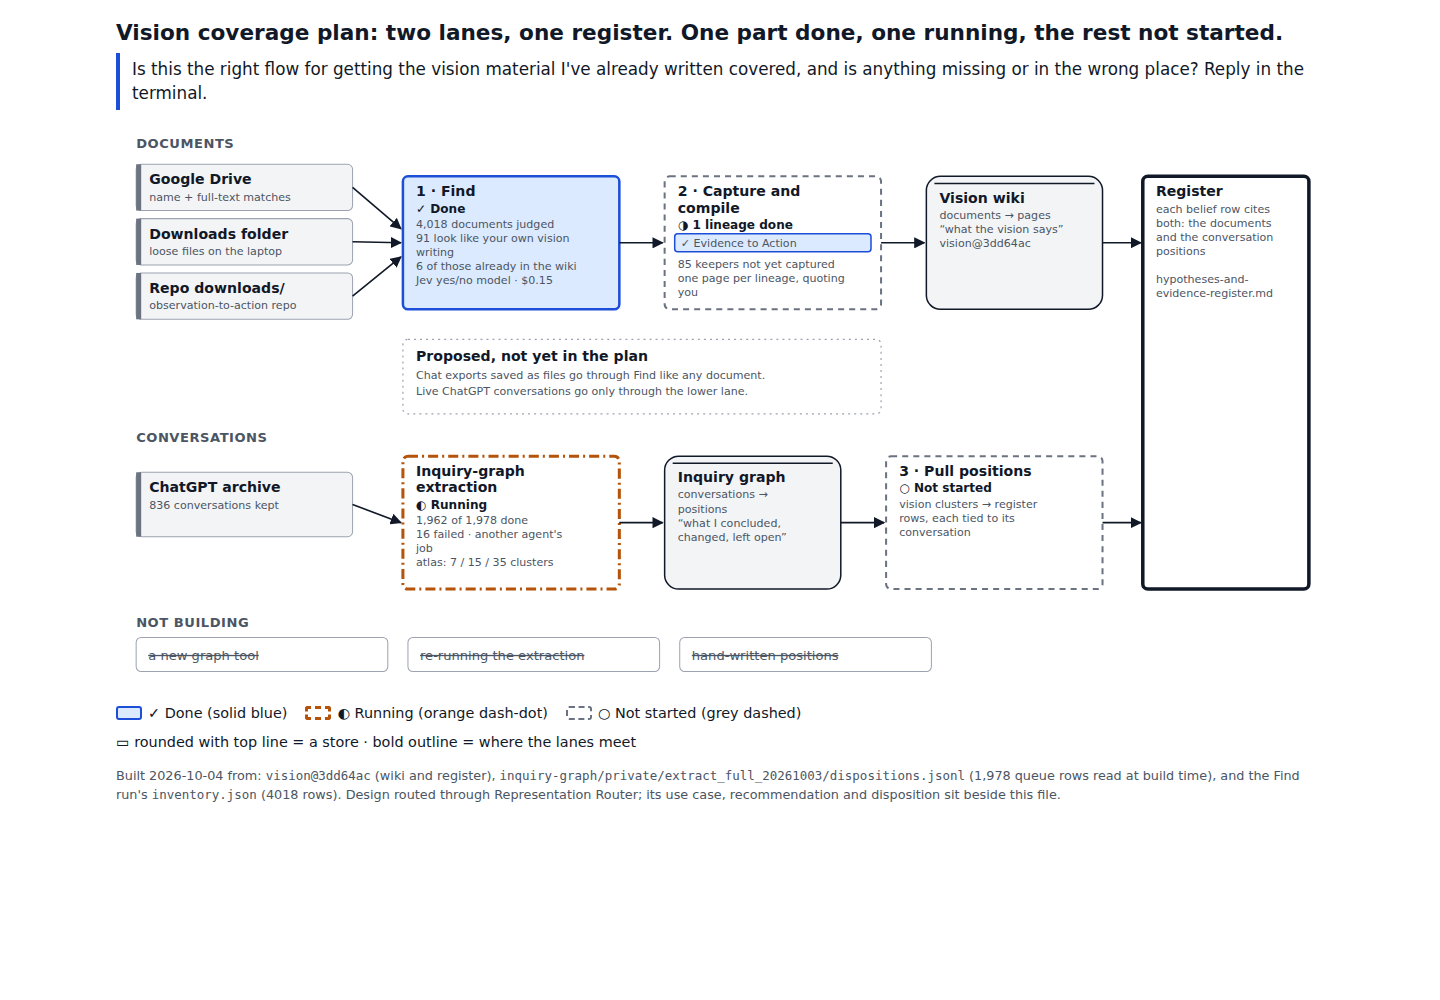
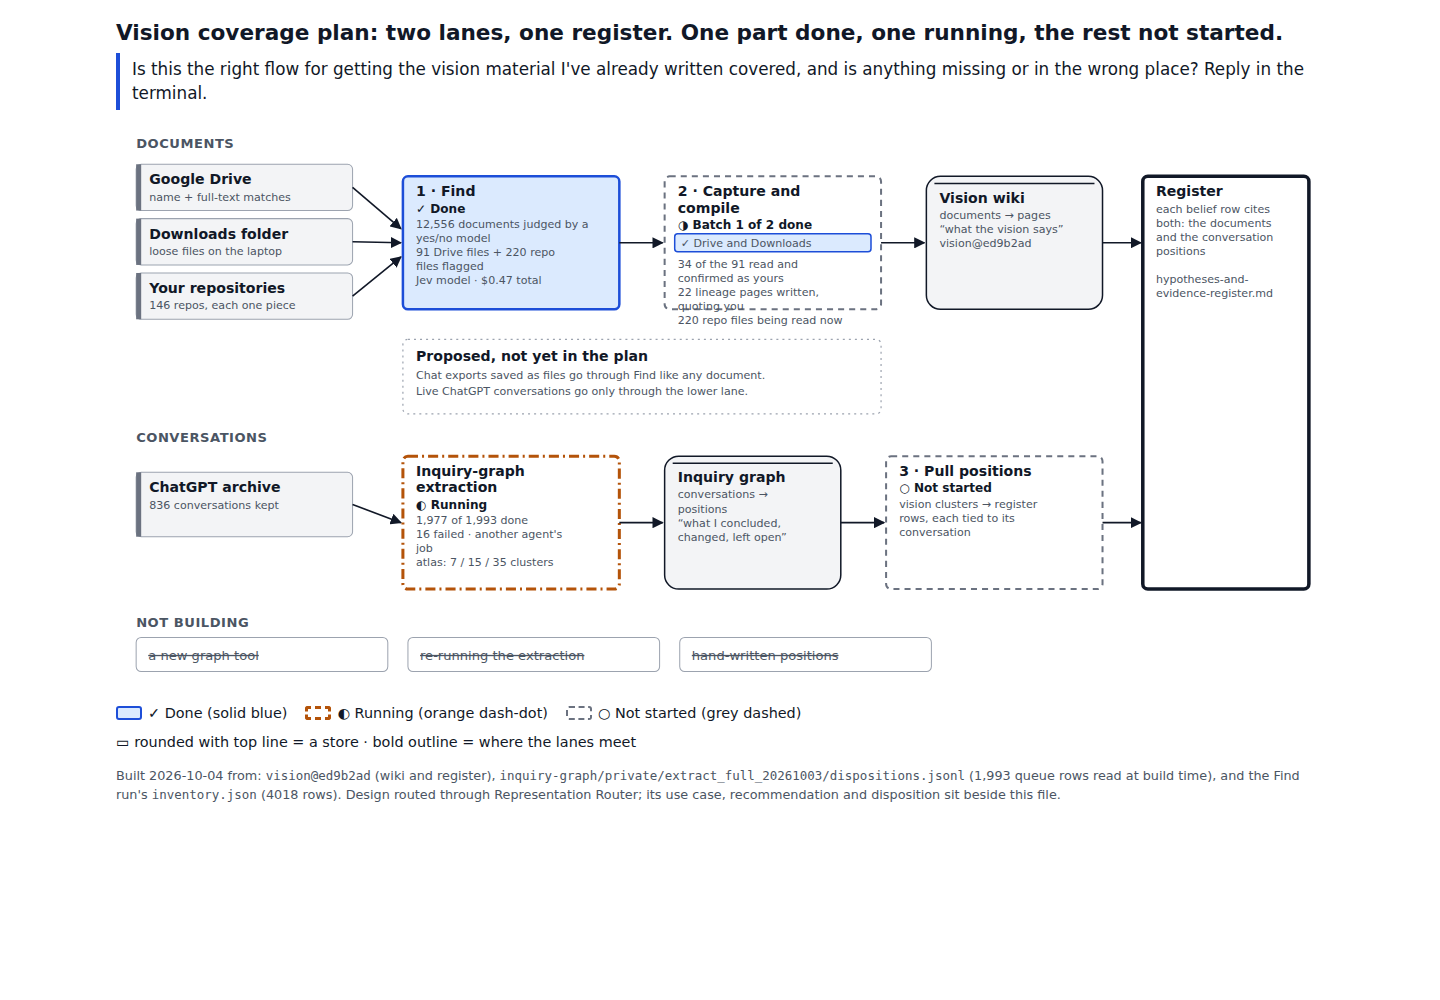
Vision-coverage plan: repositories as a source; step 1 complete across Drive, Downloads and 146 repos; step 2 batch one done
Claude-Session: https://claude.ai/code/session_01G9RvgvmeicLDxH26LWxpYq

diff --git a/proposals/vision-coverage/review-page/vision-coverage-plan.html b/proposals/vision-coverage/review-page/vision-coverage-plan.html
@@ -41,30 +41,32 @@ footer{margin-top:14px;font-size:.8rem;color:var(--muted)}footer code{font-size:
 <text x="33" y="130" class="t-prov">loose files on the laptop</text>
 </g><g class="k-src "><rect x="20" y="148" width="215" height="46" rx="5"/>
 <rect x="20" y="148" width="5" height="46" class="srcbar"/>
-<text x="33" y="168" class="t-title">Repo downloads/</text>
-<text x="33" y="184" class="t-prov">observation-to-action repo</text>
+<text x="33" y="168" class="t-title">Your repositories</text>
+<text x="33" y="184" class="t-prov">146 repos, each one piece</text>
 </g><g class="k-step st-done"><rect x="285" y="52" width="215" height="132" rx="5"/>
 <text x="298" y="72" class="t-title">1 · Find</text>
 <text x="298" y="88" class="t-state">✓ Done</text>
-<text x="298" y="103" class="t-prov">4,018 documents judged</text>
-<text x="298" y="117" class="t-prov">91 look like your own vision</text>
-<text x="298" y="131" class="t-prov">writing</text>
-<text x="298" y="145" class="t-prov">6 of those already in the wiki</text>
-<text x="298" y="159" class="t-prov">Jev yes/no model · $0.15</text>
+<text x="298" y="103" class="t-prov">12,556 documents judged by a</text>
+<text x="298" y="117" class="t-prov">yes/no model</text>
+<text x="298" y="131" class="t-prov">91 Drive files + 220 repo</text>
+<text x="298" y="145" class="t-prov">files flagged</text>
+<text x="298" y="159" class="t-prov">Jev model · $0.47 total</text>
 </g><g class="k-step st-todo"><rect x="545" y="52" width="215" height="132" rx="5"/>
 <text x="558" y="72" class="t-title">2 · Capture and</text>
 <text x="558" y="88" class="t-title">compile</text>
-<text x="558" y="104" class="t-state">◑ 1 lineage done</text>
-<rect x="555" y="109" width="195" height="18" rx="3" class="chip"/><text x="561" y="122" class="t-prov">✓ Evidence to Action</text>
-<text x="558" y="143" class="t-prov">85 keepers not yet captured</text>
-<text x="558" y="157" class="t-prov">one page per lineage, quoting</text>
-<text x="558" y="171" class="t-prov">you</text>
+<text x="558" y="104" class="t-state">◑ Batch 1 of 2 done</text>
+<rect x="555" y="109" width="195" height="18" rx="3" class="chip"/><text x="561" y="122" class="t-prov">✓ Drive and Downloads</text>
+<text x="558" y="143" class="t-prov">34 of the 91 read and</text>
+<text x="558" y="157" class="t-prov">confirmed as yours</text>
+<text x="558" y="171" class="t-prov">22 lineage pages written,</text>
+<text x="558" y="185" class="t-prov">quoting you</text>
+<text x="558" y="199" class="t-prov">220 repo files being read now</text>
 </g><g class="k-store "><rect x="805" y="52" width="175" height="132" rx="14"/>
 <line x1="813" y1="59" x2="972" y2="59" class="storeline"/>
 <text x="818" y="78" class="t-title">Vision wiki</text>
 <text x="818" y="94" class="t-prov">documents → pages</text>
 <text x="818" y="108" class="t-prov">“what the vision says”</text>
-<text x="818" y="122" class="t-prov">vision@3dd64ac</text>
+<text x="818" y="122" class="t-prov">vision@ed9b2ad</text>
 </g><g class="k-src "><rect x="20" y="346" width="215" height="64" rx="5"/>
 <rect x="20" y="346" width="5" height="64" class="srcbar"/>
 <text x="33" y="366" class="t-title">ChatGPT archive</text>
@@ -73,7 +75,7 @@ footer{margin-top:14px;font-size:.8rem;color:var(--muted)}footer code{font-size:
 <text x="298" y="350" class="t-title">Inquiry-graph</text>
 <text x="298" y="366" class="t-title">extraction</text>
 <text x="298" y="382" class="t-state">◐ Running</text>
-<text x="298" y="397" class="t-prov">1,962 of 1,978 done</text>
+<text x="298" y="397" class="t-prov">1,977 of 1,993 done</text>
 <text x="298" y="411" class="t-prov">16 failed · another agent&#x27;s</text>
 <text x="298" y="425" class="t-prov">job</text>
 <text x="298" y="439" class="t-prov">atlas: 7 / 15 / 35 clusters</text>
@@ -108,7 +110,8 @@ footer{margin-top:14px;font-size:.8rem;color:var(--muted)}footer code{font-size:
 <text x="23" y="94" class="t-title">Downloads folder</text>
 </g><g class="k-src "><rect x="10" y="118" width="165" height="38" rx="5"/>
 <rect x="10" y="118" width="5" height="38" class="srcbar"/>
-<text x="23" y="138" class="t-title">Repo downloads/</text>
+<text x="23" y="138" class="t-title">Your</text>
+<text x="23" y="154" class="t-title">repositories</text>
 </g><g class="k-src "><rect x="188" y="30" width="162" height="126" rx="5"/>
 <rect x="188" y="30" width="5" height="126" class="srcbar"/>
 <text x="201" y="50" class="t-title">ChatGPT archive</text>
@@ -116,17 +119,17 @@ footer{margin-top:14px;font-size:.8rem;color:var(--muted)}footer code{font-size:
 </g><g class="k-step st-done"><rect x="10" y="190" width="165" height="170" rx="5"/>
 <text x="23" y="210" class="t-title">1 · Find</text>
 <text x="23" y="226" class="t-state">✓ Done</text>
-<text x="23" y="241" class="t-prov">4,018 documents judged</text>
-<text x="23" y="255" class="t-prov">91 look like your own</text>
-<text x="23" y="269" class="t-prov">vision writing</text>
-<text x="23" y="283" class="t-prov">6 of those already in</text>
-<text x="23" y="297" class="t-prov">the wiki</text>
-<text x="23" y="311" class="t-prov">Jev yes/no model ·</text>
-<text x="23" y="325" class="t-prov">$0.15</text>
+<text x="23" y="241" class="t-prov">12,556 documents</text>
+<text x="23" y="255" class="t-prov">judged by a yes/no</text>
+<text x="23" y="269" class="t-prov">model</text>
+<text x="23" y="283" class="t-prov">91 Drive files + 220</text>
+<text x="23" y="297" class="t-prov">repo files flagged</text>
+<text x="23" y="311" class="t-prov">Jev model · $0.47</text>
+<text x="23" y="325" class="t-prov">total</text>
 </g><g class="k-step st-run"><rect x="188" y="190" width="162" height="170" rx="5"/>
 <text x="201" y="210" class="t-title">Extraction</text>
 <text x="201" y="226" class="t-state">◐ Running</text>
-<text x="201" y="241" class="t-prov">1,962 of 1,978 done</text>
+<text x="201" y="241" class="t-prov">1,977 of 1,993 done</text>
 <text x="201" y="255" class="t-prov">16 failed · another</text>
 <text x="201" y="269" class="t-prov">agent&#x27;s job</text>
 <text x="201" y="283" class="t-prov">atlas: 7 / 15 / 35</text>
@@ -134,12 +137,14 @@ footer{margin-top:14px;font-size:.8rem;color:var(--muted)}footer code{font-size:
 </g><g class="k-step st-todo"><rect x="10" y="394" width="165" height="160" rx="5"/>
 <text x="23" y="414" class="t-title">2 · Capture and</text>
 <text x="23" y="430" class="t-title">compile</text>
-<text x="23" y="446" class="t-state">◑ 1 lineage done</text>
-<rect x="20" y="451" width="145" height="18" rx="3" class="chip"/><text x="26" y="464" class="t-prov">✓ Evidence to Action</text>
-<text x="23" y="485" class="t-prov">85 keepers not yet</text>
-<text x="23" y="499" class="t-prov">captured</text>
-<text x="23" y="513" class="t-prov">one page per lineage,</text>
-<text x="23" y="527" class="t-prov">quoting you</text>
+<text x="23" y="446" class="t-state">◑ Batch 1 of 2 done</text>
+<rect x="20" y="451" width="145" height="18" rx="3" class="chip"/><text x="26" y="464" class="t-prov">✓ Drive and Downloads</text>
+<text x="23" y="485" class="t-prov">34 of the 91 read and</text>
+<text x="23" y="499" class="t-prov">confirmed as yours</text>
+<text x="23" y="513" class="t-prov">22 lineage pages</text>
+<text x="23" y="527" class="t-prov">written, quoting you</text>
+<text x="23" y="541" class="t-prov">220 repo files being</text>
+<text x="23" y="555" class="t-prov">read now</text>
 </g><g class="k-store "><rect x="188" y="394" width="162" height="160" rx="14"/>
 <line x1="196" y1="401" x2="342" y2="401" class="storeline"/>
 <text x="201" y="420" class="t-title">Inquiry graph</text>
@@ -151,7 +156,7 @@ footer{margin-top:14px;font-size:.8rem;color:var(--muted)}footer code{font-size:
 <line x1="18" y1="595" x2="167" y2="595" class="storeline"/>
 <text x="23" y="614" class="t-title">Vision wiki</text>
 <text x="23" y="630" class="t-prov">documents → pages</text>
-<text x="23" y="644" class="t-prov">vision@3dd64ac</text>
+<text x="23" y="644" class="t-prov">vision@ed9b2ad</text>
 </g><g class="k-step st-todo"><rect x="188" y="588" width="162" height="130" rx="5"/>
 <text x="201" y="608" class="t-title">3 · Pull</text>
 <text x="201" y="624" class="t-title">positions</text>
@@ -166,5 +171,5 @@ footer{margin-top:14px;font-size:.8rem;color:var(--muted)}footer code{font-size:
 <p class="nbl narrow"><strong>Proposed, not yet in the plan:</strong> chat exports saved as files go through Find like any document; live ChatGPT conversations go only through the right-hand lane.</p>
 <p class="nbl narrow"><strong>Not building:</strong> <s>a new graph tool</s> <s>re-running the extraction</s> <s>hand-written positions</s></p>
 <ul class="legend"><li><span class="l-done"></span>✓ Done (solid blue)</li><li><span class="l-run"></span>◐ Running (orange dash-dot)</li><li><span class="l-todo"></span>○ Not started (grey dashed)</li><li>▭ rounded with top line = a store · bold outline = where the lanes meet</li></ul>
-<footer>Built 2026-10-04 from: <code>vision@3dd64ac</code> (wiki and register), <code>inquiry-graph/private/extract_full_20261003/dispositions.jsonl</code> (1,978 queue rows read at build time), and the Find run's <code>inventory.json</code> (4018 rows). Design routed through Representation Router; its use case, recommendation and disposition sit beside this file.</footer>
+<footer>Built 2026-10-04 from: <code>vision@ed9b2ad</code> (wiki and register), <code>inquiry-graph/private/extract_full_20261003/dispositions.jsonl</code> (1,993 queue rows read at build time), and the Find run's <code>inventory.json</code> (4018 rows). Design routed through Representation Router; its use case, recommendation and disposition sit beside this file.</footer>
 </main></body></html>

diff --git a/proposals/vision-coverage/README.md b/proposals/vision-coverage/README.md
@@ -21,8 +21,8 @@ Two stores with different jobs, meeting in the register:
 
 Steps:
 
-1. **Find.** Candidate documents from Google Drive (name and full-text matches on vision-related terms), the Windows Downloads folder, and repository `downloads/` folders. A yes/no model (Jev) reads each name and opening text and scores a fixed set of questions; keywords only pick candidates, they never decide what a document is. Output: one inventory of what exists, where, and whether it is captured. Run 2026-10-04: 4,018 distinct documents judged for $0.15; 91 scored as Brian's own vision writing; 6 of those already in the wiki.
-2. **Capture and compile.** Keepers become governed sources in the Vision wiki; one page per lineage quotes Brian. Precedent: the Evidence to Action lineage (2026-07-14, 2026-08-01, 2026-09-25), done 2026-10-04.
+1. **Find.** Candidate documents from Google Drive (name and full-text matches on vision-related terms), the Windows Downloads folder, and Brian's own repositories. (Brian, 2026-10-04: "it is more than just the observation to action repo. i have been working through a bunch of different parts of the full infrastructure in kind of isolated pieces." The repositories are a source in their own right, and each one is a piece of the infrastructure.) A yes/no model (Jev) reads each name and opening text and scores a fixed set of questions; keywords only pick candidates, they never decide what a document is. Output: one inventory of what exists, where, and whether it is captured. Run 2026-10-04: 12,556 documents judged for $0.47 (4,018 on Drive and in Downloads, 8,538 across 146 repositories). 91 Drive and Downloads documents and 220 repository documents were flagged. Reading then confirmed 34 of the 91 as Brian's own vision writing; the model over-counted by almost three to one, so nothing is compiled without being read.
+2. **Capture and compile.** Keepers become governed sources in the Vision wiki; one page per lineage quotes Brian. Batch one (Drive and Downloads) done 2026-10-04: 22 lineage pages. Batch two (repository documents) in progress. Alongside it, a piece map lays the repositories against the parts of the 2026-09-25 architecture; it names repositories, so it lives in the private `vision` repository. Precedent: the Evidence to Action lineage (2026-07-14, 2026-08-01, 2026-09-25), done 2026-10-04.
 3. **Pull positions.** When the inquiry-graph archive extraction (another lane, already running) finishes, the vision-related clusters of its topic atlas become register rows for positions and open questions, each tied to its conversation.
 
 ## Not building
